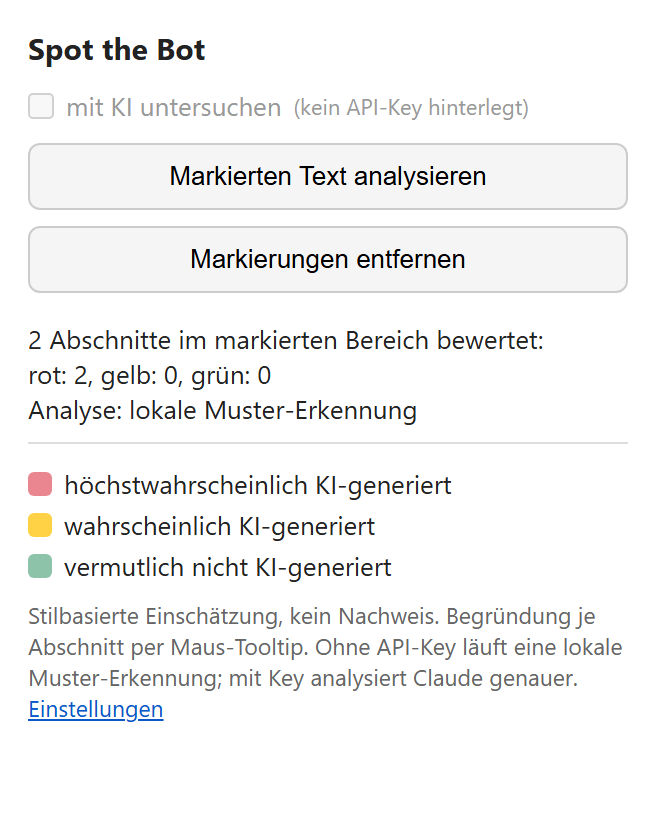
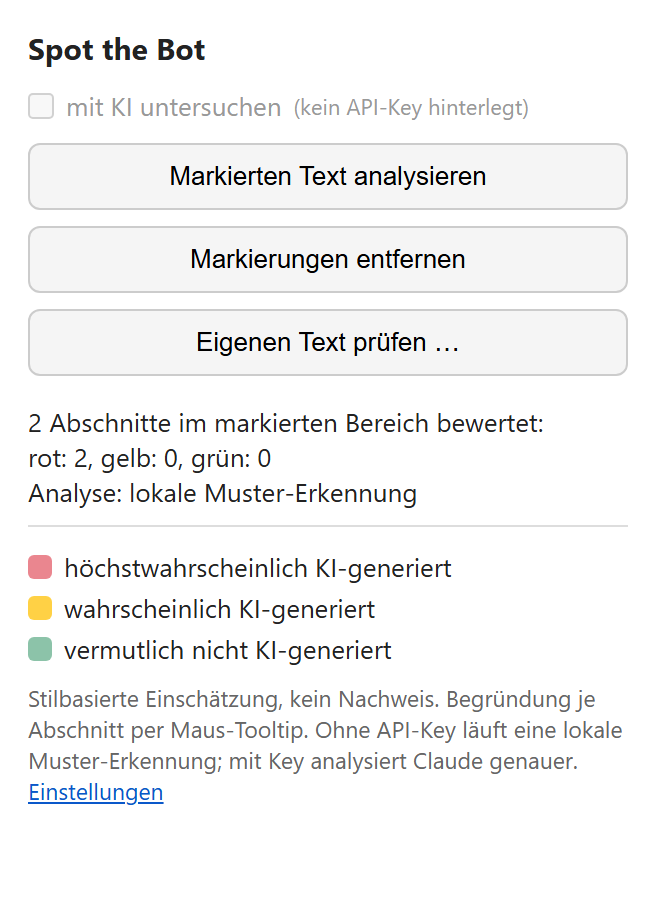
Eigenen Text pruefen: Eingabefeld im Popup
Ergebnis des Konkurrenz-Checks: Copyleaks, Hive und GPTZero bieten alle
eine Texteingabe - der haeufigste Anwendungsfall (erhaltene E-Mail,
eingereichte Arbeit, Kommentar) braucht keine Webseite. Das war unsere
groesste funktionale Luecke.

Der eingefuegte Text geht direkt an den Service Worker, ohne Content
Script - funktioniert damit auch auf chrome://-Seiten. Absaetze werden
einzeln bewertet (Trennung an Leerzeilen, Mindestlaenge 150 Zeichen wie
bei der Seitenanalyse); besteht der Text nur aus kurzen Absaetzen, wird
er als Ganzes bewertet. Kappung bei 40 Absaetzen a 2000 Zeichen begrenzt
die API-Kosten. Ergebnis als farbige Eintraege mit Einstufung,
Textausschnitt und Begruendung, darunter der Analyse-Modus.

Der eingefuegte Text ist ein neuer Datenpfad: Datenschutzerklaerung und
Datenerhebungs-Angabe in store/eintrag.md decken ihn jetzt ausdruecklich
ab. Store-Beschreibung um Abgrenzung geschaerft (ohne Konto, ohne
Tageslimit, Begruendung statt Prozent-Score).

Popup-Screenshots neu generiert (dritter Button sichtbar), neuer
Screenshot des Features in README und docs/screenshots.

Changed region(s): [[0.0305, 0.0301, 0.9756, 0.9036]]

diff --git a/popup.js b/popup.js
@@ -129,6 +129,99 @@ entfernenBtn.addEventListener("click", async () => {
   }
 });
 
+// Eigenen Text prüfen: eingefügter Text geht direkt an den Service Worker,
+// ohne Umweg über die Seite. Gleiche Regeln wie bei der Seitenanalyse
+// (Mindestlänge, Kappung), gleiche Modus-Wahl (lokal oder Claude).
+const MIN_CHARS = 150;
+const MAX_TEXT_SEGMENTS = 40;
+const MAX_CHARS_PER_SEGMENT = 2000;
+
+const textPruefenBtn = document.getElementById("textPruefen");
+const textBereich = document.getElementById("textBereich");
+const eigenerTextEl = document.getElementById("eigenerText");
+const textAnalysierenBtn = document.getElementById("textAnalysieren");
+const textErgebnisEl = document.getElementById("textErgebnis");
+
+textPruefenBtn.addEventListener("click", () => {
+  textBereich.hidden = !textBereich.hidden;
+  if (!textBereich.hidden) eigenerTextEl.focus();
+});
+
+// Absätze ab MIN_CHARS einzeln bewerten; besteht der Text nur aus kürzeren
+// Absätzen, wird er als Ganzes bewertet, sofern er insgesamt lang genug ist.
+function textSegmente(roh) {
+  const bloecke = roh
+    .split(/\n\s*\n/)
+    .map((t) => t.trim())
+    .filter(Boolean);
+  let lange = bloecke.filter((t) => t.length >= MIN_CHARS);
+  if (lange.length === 0 && roh.trim().length >= MIN_CHARS) {
+    lange = [roh.trim()];
+  }
+  return lange
+    .slice(0, MAX_TEXT_SEGMENTS)
+    .map((t, i) => ({ id: i, text: t.slice(0, MAX_CHARS_PER_SEGMENT) }));
+}
+
+const STUFEN_MAP = Object.fromEntries(AMPEL_STUFEN.map((s) => [s.id, s]));
+
+textAnalysierenBtn.addEventListener("click", async () => {
+  const segments = textSegmente(eigenerTextEl.value);
+  textErgebnisEl.textContent = "";
+  if (segments.length === 0) {
+    const hinweis = document.createElement("div");
+    hinweis.className = "fehler";
+    hinweis.textContent = `Der Text ist zu kurz für eine Bewertung (mindestens ${MIN_CHARS} Zeichen).`;
+    textErgebnisEl.appendChild(hinweis);
+    return;
+  }
+
+  textAnalysierenBtn.disabled = true;
+  textErgebnisEl.textContent = "Prüfe …";
+  try {
+    const result = await chrome.runtime.sendMessage({ cmd: "classify", segments });
+    textErgebnisEl.textContent = "";
+    if (!result?.ok) {
+      throw new Error(result?.error || "Unbekannter Fehler");
+    }
+    for (const rating of result.ratings) {
+      const stufe = STUFEN_MAP[rating.stufe];
+      if (!stufe) continue;
+      const eintrag = document.createElement("div");
+      eintrag.className = "textTreffer";
+      eintrag.style.background = stufe.bg;
+      const kopf = document.createElement("strong");
+      kopf.textContent = stufe.label;
+      eintrag.appendChild(kopf);
+      if (segments.length > 1) {
+        const ausschnitt = document.createElement("div");
+        ausschnitt.className = "ausschnitt";
+        const text = segments[rating.id]?.text || "";
+        ausschnitt.textContent = `„${text.slice(0, 70)}${text.length > 70 ? " …" : ""}"`;
+        eintrag.appendChild(ausschnitt);
+      }
+      const grund = document.createElement("div");
+      grund.className = "grund";
+      grund.textContent = rating.grund;
+      eintrag.appendChild(grund);
+      textErgebnisEl.appendChild(eintrag);
+    }
+    const modus = document.createElement("div");
+    modus.className = result.apiError ? "fehler" : "";
+    modus.textContent =
+      (MODUS_TEXT[result.mode] || "") +
+      (result.apiError ? `\n(${result.apiError})` : "");
+    textErgebnisEl.appendChild(modus);
+  } catch (err) {
+    const fehler = document.createElement("div");
+    fehler.className = "fehler";
+    fehler.textContent = String(err.message || err);
+    textErgebnisEl.appendChild(fehler);
+  } finally {
+    textAnalysierenBtn.disabled = false;
+  }
+});
+
 document.getElementById("einstellungen").addEventListener("click", (e) => {
   e.preventDefault();
   chrome.runtime.openOptionsPage();

diff --git a/popup.html b/popup.html
@@ -37,6 +37,25 @@
     #kiOptionHinweis { font-size: 11px; color: #999; }
     #status { min-height: 32px; margin: 6px 0; white-space: pre-line; }
     .fehler { color: #b02a37; }
+    textarea {
+      width: 100%;
+      box-sizing: border-box;
+      padding: 6px 8px;
+      border: 1px solid #ccc;
+      border-radius: 6px;
+      font: inherit;
+      resize: vertical;
+      margin-bottom: 8px;
+    }
+    .textTreffer {
+      padding: 6px 8px;
+      margin: 6px 0;
+      border-radius: 4px;
+      font-size: 12px;
+      color: #1f1f1f;
+    }
+    .textTreffer .ausschnitt { font-style: italic; margin-top: 2px; }
+    .textTreffer .grund { margin-top: 2px; }
     .legende { margin-top: 8px; border-top: 1px solid #ddd; padding-top: 8px; }
     .legende div { display: flex; align-items: center; gap: 6px; margin: 3px 0; }
     .punkt { width: 12px; height: 12px; border-radius: 3px; display: inline-block; flex-shrink: 0; }
@@ -53,6 +72,12 @@
   </label>
   <button id="analysieren">Seite analysieren</button>
   <button id="entfernen">Markierungen entfernen</button>
+  <button id="textPruefen">Eigenen Text prüfen …</button>
+  <div id="textBereich" hidden>
+    <textarea id="eigenerText" rows="6" placeholder="Text hier einfügen (mindestens 150 Zeichen), z. B. eine E-Mail oder einen Kommentar"></textarea>
+    <button id="textAnalysieren">Text analysieren</button>
+    <div id="textErgebnis"></div>
+  </div>
   <div id="status"></div>
   <div class="legende" id="legende"></div>
   <div class="hinweis">

diff --git a/store/eintrag.md b/store/eintrag.md
@@ -19,15 +19,19 @@ Wird automatisch aus der `description` in [manifest.json](../manifest.json) übe
 >
 > Die Begründung zu jedem Abschnitt erscheint als Tooltip, wenn du mit der Maus darüberfährst.
 >
-> GANZE SEITE ODER NUR EIN AUSSCHNITT
+> GANZE SEITE, EIN AUSSCHNITT ODER EIGENER TEXT
 >
-> Ohne Markierung wird die ganze Seite bewertet. Markierst du vorher einen Textabschnitt, prüft die Erweiterung nur diesen Bereich – schneller, günstiger und gezielt bei langen Seiten.
+> Ohne Markierung wird die ganze Seite bewertet. Markierst du vorher einen Textabschnitt, prüft die Erweiterung nur diesen Bereich – schneller, günstiger und gezielt bei langen Seiten. Und über „Eigenen Text prüfen" fügst du beliebigen Text direkt ins Popup ein, etwa eine E-Mail oder einen Kommentar.
 >
 > ZWEI ANALYSE-MODI
 >
 > Ohne API-Key (Standard): Eine lokale Regel-Engine prüft die Texte auf bekannte KI-Stilmuster – Floskeln, Gedankenstrich-Häufung, Chatbot-Artefakte und mehr. Kostenlos, und kein Text verlässt den Browser.
 >
 > Mit eigenem Anthropic API-Key: Claude bewertet die Abschnitte inhaltlich, was deutlich genauer ist. Der Key wird nur lokal gespeichert und ausschließlich an api.anthropic.com gesendet. Schlägt die API fehl, springt automatisch die lokale Erkennung ein.
+>
+> OHNE KONTO, OHNE LIMIT
+>
+> Kein Login, kein Tageslimit, keine Anbieter-Server. Die Begründung steht direkt am Text statt als nackter Prozentwert – jede Einstufung nennt die konkreten Auffälligkeiten.
 >
 > WICHTIG
 >
@@ -53,7 +57,7 @@ Wird automatisch aus der `description` in [manifest.json](../manifest.json) übe
 - **activeTab / scripting:** Liest nach Klick auf „Seite analysieren" die sichtbaren Textabschnitte der aktiven Seite und färbt sie ein. Beim Öffnen des Popups wird zusätzlich abgefragt, ob auf der Seite Text markiert ist, um den Button passend zu beschriften; dabei wird nur geprüft, ob eine Markierung existiert, nicht deren Inhalt gelesen. Kein Zugriff ohne Nutzeraktion (das Öffnen des Popups ist eine solche).
 - **storage:** Speichert API-Key und Einstellungen lokal auf dem Gerät.
 - **Host-Berechtigung api.anthropic.com:** Sendet im optionalen Claude-Modus die Textabschnitte zur Bewertung an die Claude API.
-- **Datenerhebung:** „Website content" ankreuzen (Textabschnitte der analysierten Seite gehen im Claude-Modus an Anthropic) sowie „Authentication information" für den vom Nutzer selbst hinterlegten API-Key (wird nur lokal gespeichert und an api.anthropic.com übertragen). Keine Weitergabe an weitere Dritte, kein Verkauf, keine Nutzung für fremde Zwecke.
+- **Datenerhebung:** „Website content" ankreuzen (Textabschnitte der analysierten Seite bzw. vom Nutzer eingefügter Text gehen im Claude-Modus an Anthropic) sowie „Authentication information" für den vom Nutzer selbst hinterlegten API-Key (wird nur lokal gespeichert und an api.anthropic.com übertragen). Keine Weitergabe an weitere Dritte, kein Verkauf, keine Nutzung für fremde Zwecke.
 - **Datenschutzerklärung (URL):** https://github.com/themmerich/ki-text-finder/blob/main/DATENSCHUTZ.md
 
 ## Einreichen

diff --git a/DATENSCHUTZ.md b/DATENSCHUTZ.md
@@ -6,11 +6,11 @@ Spot the Bot ist eine Chrome-Erweiterung, die Textabschnitte der gerade geöffne
 
 ## Was die Erweiterung verarbeitet
 
-Bei einer Analyse liest die Erweiterung die sichtbaren Textabschnitte der aktiven Seite (Absätze, Listenpunkte, Zitate). Die Analyse startet nur, wenn du sie im Popup auslöst; die Erweiterung liest nicht im Hintergrund mit.
+Bei einer Analyse liest die Erweiterung die sichtbaren Textabschnitte der aktiven Seite (Absätze, Listenpunkte, Zitate). Zusätzlich kannst du eigenen Text in das Popup einfügen und prüfen lassen. Beides passiert nur, wenn du es im Popup auslöst; die Erweiterung liest nicht im Hintergrund mit.
 
 **Lokaler Modus (Standard, ohne API-Key):** Die Texte werden ausschließlich im Browser durch eine Regel-Engine geprüft. Es verlässt kein Text dein Gerät.
 
-**Claude-Modus (mit API-Key):** Die Textabschnitte der analysierten Seite werden zur Bewertung an die Claude API von Anthropic (api.anthropic.com) gesendet. Für diese Verarbeitung gilt die [Datenschutzerklärung von Anthropic](https://www.anthropic.com/legal/privacy). Dieser Modus ist nur aktiv, wenn du selbst einen API-Key hinterlegt und die Option „mit KI untersuchen" eingeschaltet hast.
+**Claude-Modus (mit API-Key):** Die Textabschnitte der analysierten Seite (bzw. der von dir eingefügte Text) werden zur Bewertung an die Claude API von Anthropic (api.anthropic.com) gesendet. Für diese Verarbeitung gilt die [Datenschutzerklärung von Anthropic](https://www.anthropic.com/legal/privacy). Dieser Modus ist nur aktiv, wenn du selbst einen API-Key hinterlegt und die Option „mit KI untersuchen" eingeschaltet hast.
 
 ## Was gespeichert wird
 

diff --git a/README.md b/README.md
@@ -54,6 +54,12 @@ Icon anklicken → **„Seite analysieren"**. Nach einigen Sekunden sind die Abs
 
 Das Ergebnis geht beim Schließen des Popups nicht verloren: Beim nächsten Öffnen zeigt es die letzte Statistik wieder an, solange die Markierungen auf der Seite stehen. Kappt die Obergrenze von 120 Abschnitten die Analyse einer sehr langen Seite, sagt das Popup das („120 von 260 Abschnitten bewertet").
 
+Über **„Eigenen Text prüfen"** lässt sich auch Text bewerten, der auf keiner Webseite steht – eine E-Mail, eine eingereichte Arbeit, ein Kommentar. Einfügen, prüfen, und das Popup zeigt die Einstufung samt Begründung je Absatz. Es gelten dieselben Regeln wie bei der Seitenanalyse (Mindestlänge 150 Zeichen, gewählter Analyse-Modus).
+
+<p align="center">
+  <img src="docs/screenshots/popup-text.png" alt="Popup mit geöffnetem Eingabefeld: eingefügter Text wurde als höchstwahrscheinlich KI-generiert eingestuft, mit Begründung" width="280">
+</p>
+
 Die Checkbox **„mit KI untersuchen"** steuert den Modus: Ohne hinterlegten Key ist sie ausgegraut und es läuft immer die lokale Erkennung. Mit Key ist sie standardmäßig aktiv, kann aber abgewählt werden, wenn die schnelle, kostenlose Analyse reichen soll. Die Auswahl bleibt gespeichert.
 
 Zum Ausprobieren liegt eine [Testseite](test-seite.html) bei, deren Absätze die typischen Fälle abdecken: Floskel-Häufung und Chatbot-Artefakt, einzelne Auffälligkeiten, unauffälliger Text – jeweils auf Deutsch und Englisch, dazu ein deutscher Absatz mit englischer Typografie.
